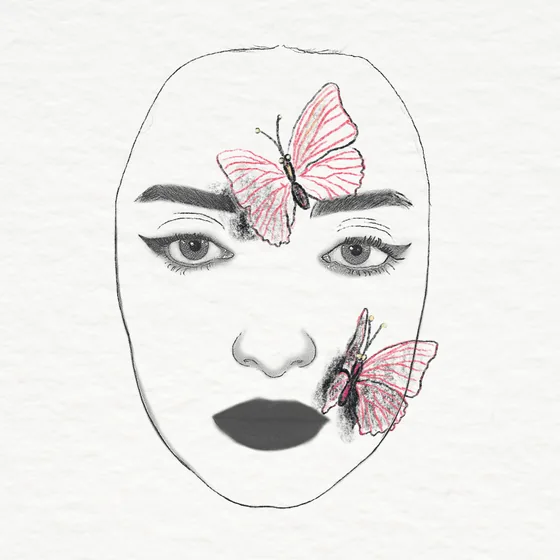
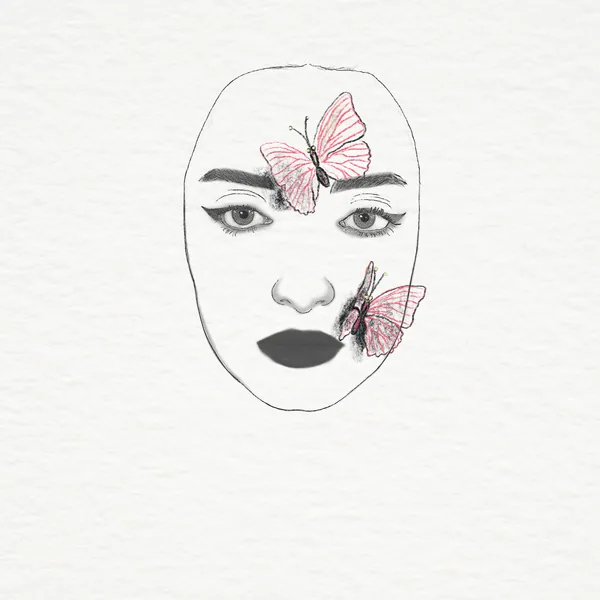
אודות: במקום מסגרת לבנה, רואים יותר מהתמונות המקוריות סביב הפנים
Claude-Session: https://claude.ai/code/session_01EdftsxnPsh1hyQnG82iFW6

diff --git a/index.html b/index.html
@@ -337,9 +337,8 @@ p{margin:0}
 /* the portrait flips from her photo into her drawings of it, like a flipbook (frames in about/frames, faces lined up) */
 .portrait{width:5.2em;height:5.2em;margin-inline-end:.55em}
 .pf{position:absolute;inset:0;overflow:hidden;background:#fff;border-radius:3px;box-shadow:0 1px 2px rgba(0,0,0,.08),0 8px 22px -10px rgba(0,0,0,.35);transform:rotate(-1.5deg)}
-.pf{padding:9%}
 .pf img{display:block;width:100%;height:100%;object-fit:cover}
-@media (max-width:640px){.pf{padding:8%}.portrait{width:5.6em;height:5.6em;margin-inline-end:.45em;margin-top:.2em}.clip{top:-12px;width:15px;height:38px}}
+@media (max-width:640px){.portrait{width:5.6em;height:5.6em;margin-inline-end:.45em;margin-top:.2em}.clip{top:-12px;width:15px;height:38px}}
 .clip{position:absolute;top:-14px;inset-inline-end:12px;width:18px;height:46px;z-index:2}
 @media (max-width:820px){.facts{grid-column:1/-1;flex-direction:row;flex-wrap:wrap;order:2}.bio{grid-column:1/-1}}
 
